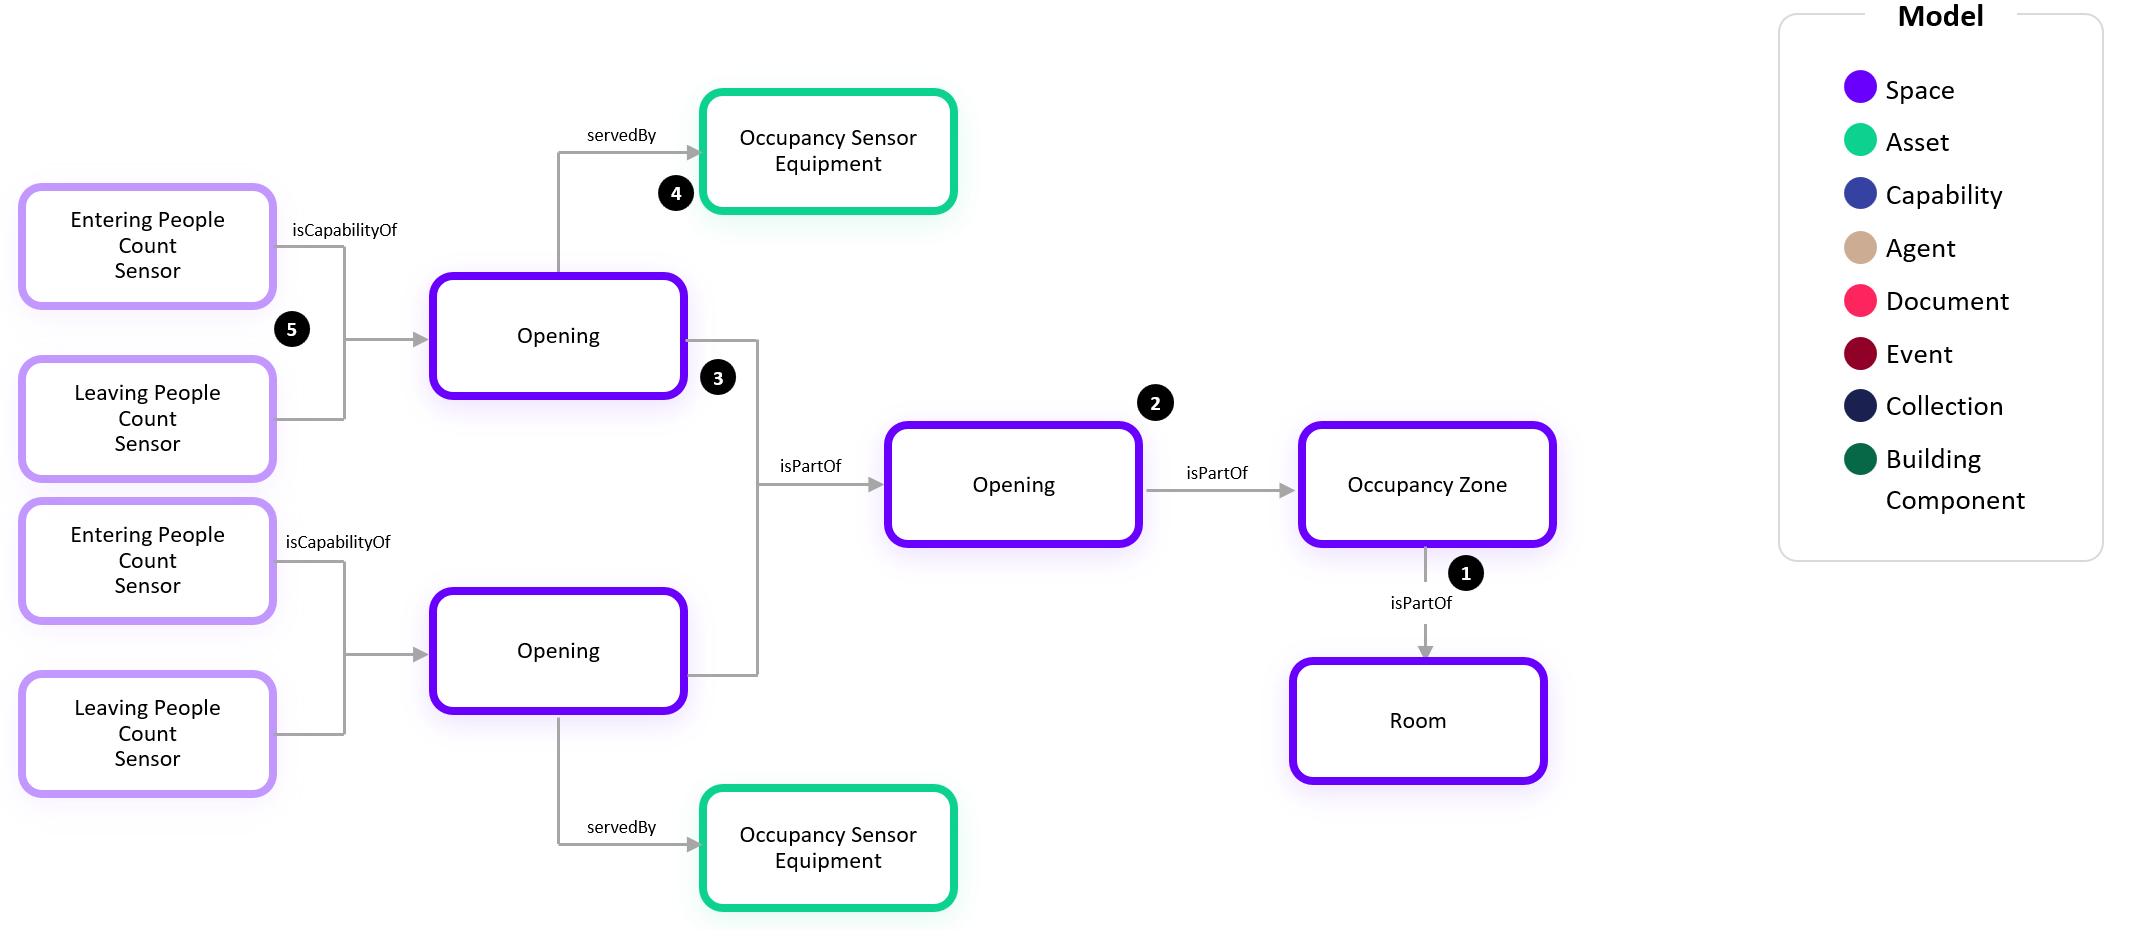
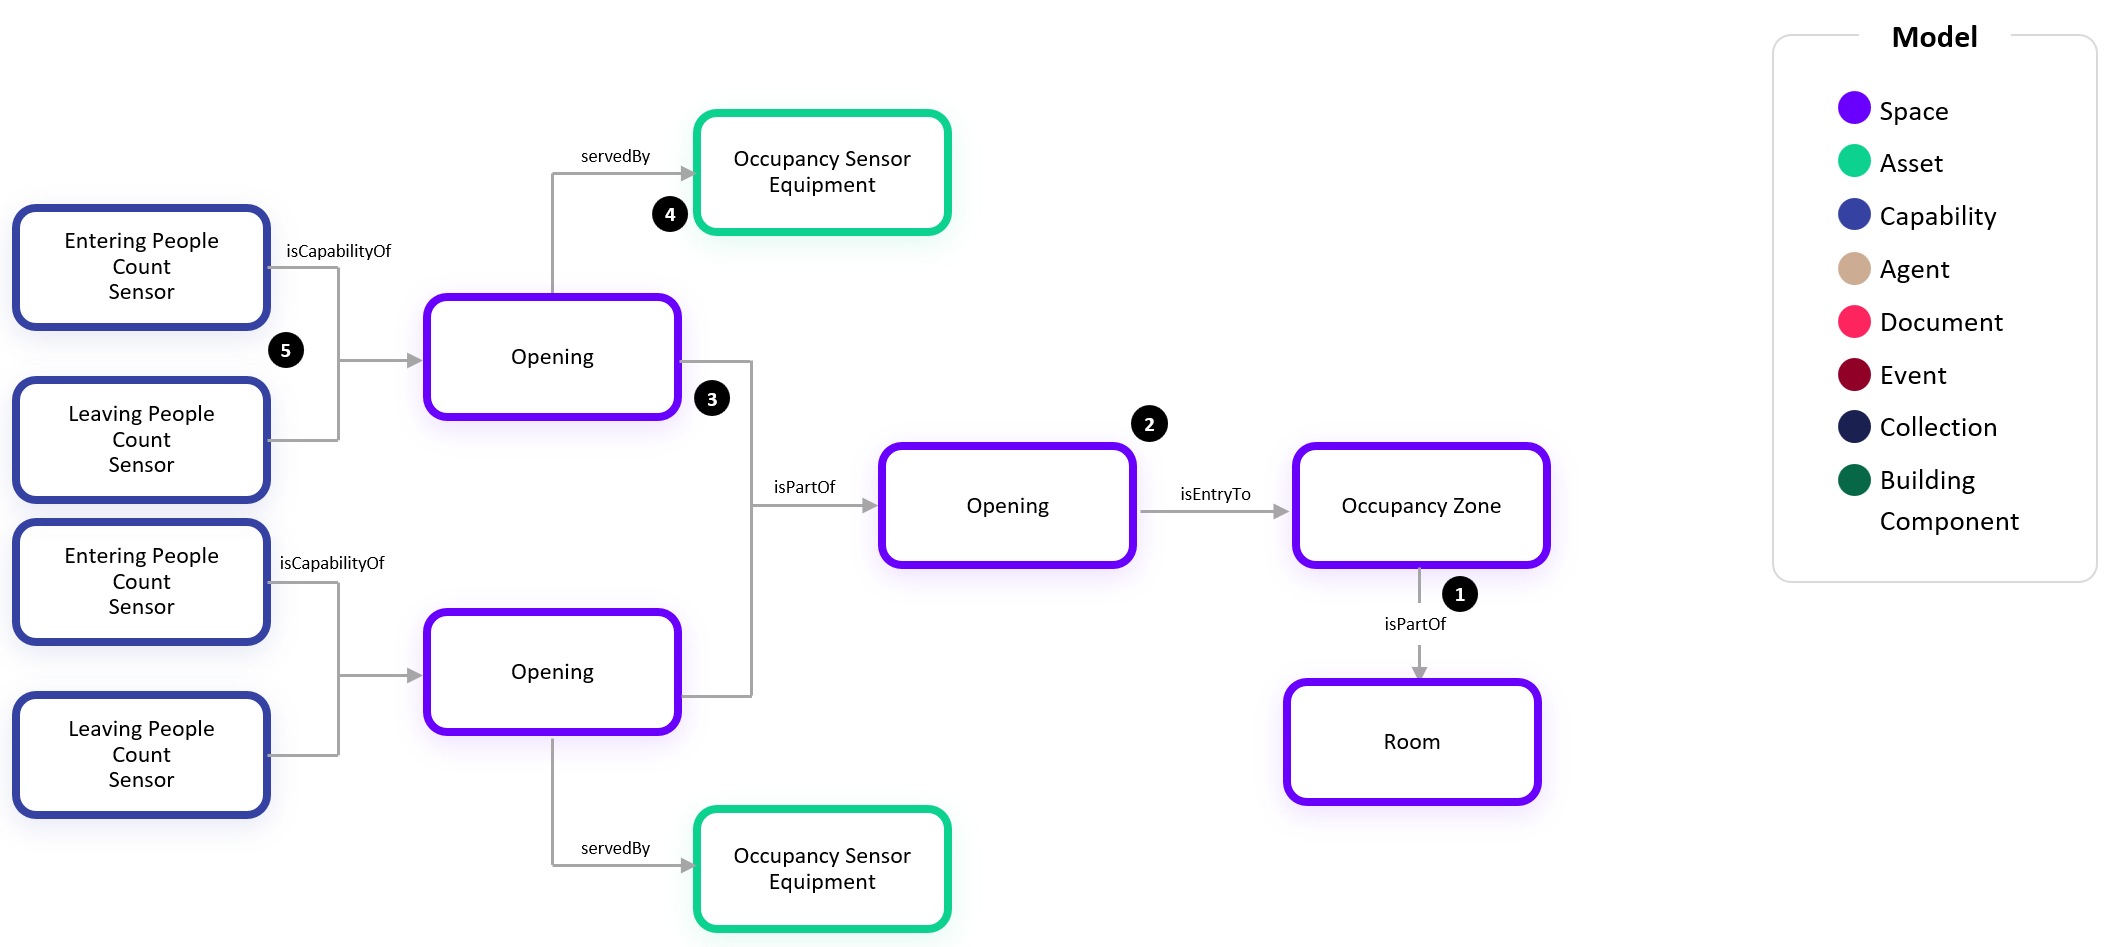
Occupancy Leaving/Entering Sample Updates

diff --git a/Samples/09-Occupancy.md b/Samples/09-Occupancy.md
@@ -64,7 +64,7 @@ This example depicts that an Occupancy Zone may be equipped with sensors that me
 
 2. The Occupancy Zone in this example contains two Openings, such as a corridor with two ends, which allow the passage of people that are being counted in and out of the zone. These openings could be physical barriers such as doors or access control turnstils or virtual boundaries defined by the sensor equipment. 
 
-3. The Openings can be unidirectional or bidirectional in purpose. Regardless of intent of the opening, an Entering People Count Sensor measures the number of people entering the Occupancy Zone while the Leaving People Count Sensor measures the people leaving the zone.
+3. An Opening always has a direction in which its two capabilities, Entering People Count Sensor and Leaving People Count Sensor, have the proper meaning for the flow of people in and out of the Occupancy Zone. When this is the case, we use the isEntryTo relationship from the Opening to the Occupancy Zone. See the Adjacent Zones, Shared Opening example for more explanation around when to use the other relationship, isExitFrom.
 
 4. The Occupancy Sensor Equipment can measure the flow of people crossing one or more thresholds (Openings). Many sensor vendors call these openings “lines” with In/Out counts. We use the servedBy relationship to define the lines that are setup in the physical sensor equipment
 
@@ -83,6 +83,24 @@ This example depicts that an Occupancy Zone opening may be sub-divided into smal
 4. Each of the smaller openings are served by a separate Occupancy Sensor Equipment.
 
 5. Each of the smaller openings also has its own Entering People Count Sensor and Leaving People Count Sensor.
+
+### Adjacent Zones, Shared Opening
+
+![Occupancy-Example7](Images/Occupancy-EnteringLeaving-Example7.png)
+
+Often when using the entry and exit-based people count sensors, the count of people entering one zone from an opening equates to the same count of people leaving its adjacent zone. This example depicts how to model this scenario:
+
+1. We start with defining an Occupancy Zone as part of a Room. Let’s say this Room #1 is a Lobby.
+
+2. Next, we have another Occupancy Zone that is part of a Room #2 which is adjacent to Room #1.
+
+3. Room #1 and Room #2 share an Opening (i.e. door). This Opening is served by the Occupancy Sensor Equipment which is counting the people coming in and out of the opening.
+
+4. The Opening has two Capabilities, Entering People Count Sensor and Leaving People Count Sensor.
+
+5. Now, we need to define the Entry and Exit relationships for the opening such that its two capabilities can have proper context for Entering and Leaving. The Opening has the relationship isEntryFor to the OccupancyZone for which the Entering People Count defines the people entering that zone. Likewise, the Leaving People Count defines the people leaving from the zone for which the Opening is an entry for. In our example, this means that the Entering People Count and Leaving People Count define the people entering and leaving from Room #1.
+
+6. Next, we define the relationship isExitFor to the OccupancyZone for which the Opening’s two capabilities have the opposite meaning. In other words, we can infer that the numbering of people leaving Room #2 via this Opening is the Entering People Count Sensor. Likewise, the number of people entering Room #2 via this Opening can be inferred from the Leaving People Count Sensor.
 
 
 ### Access Control People Counts
